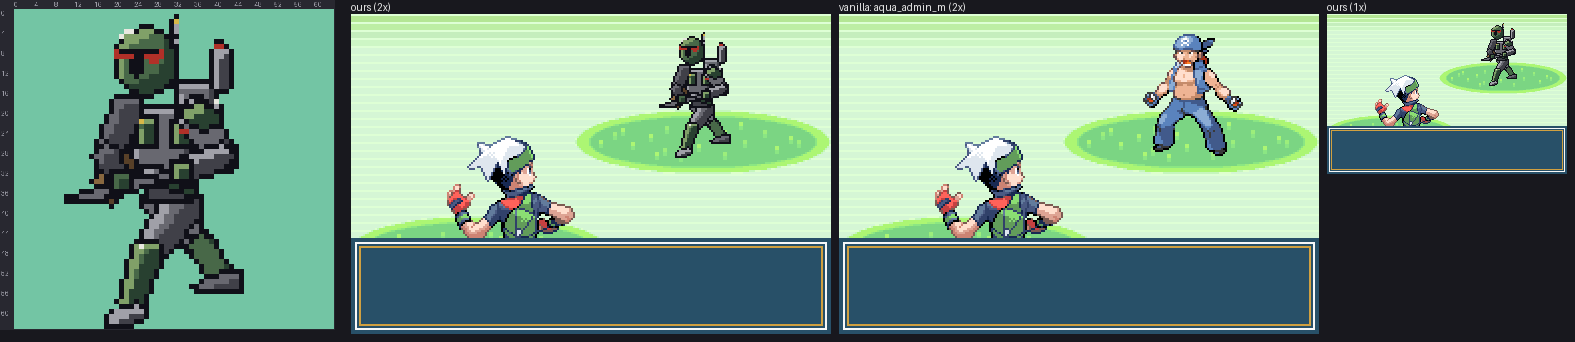
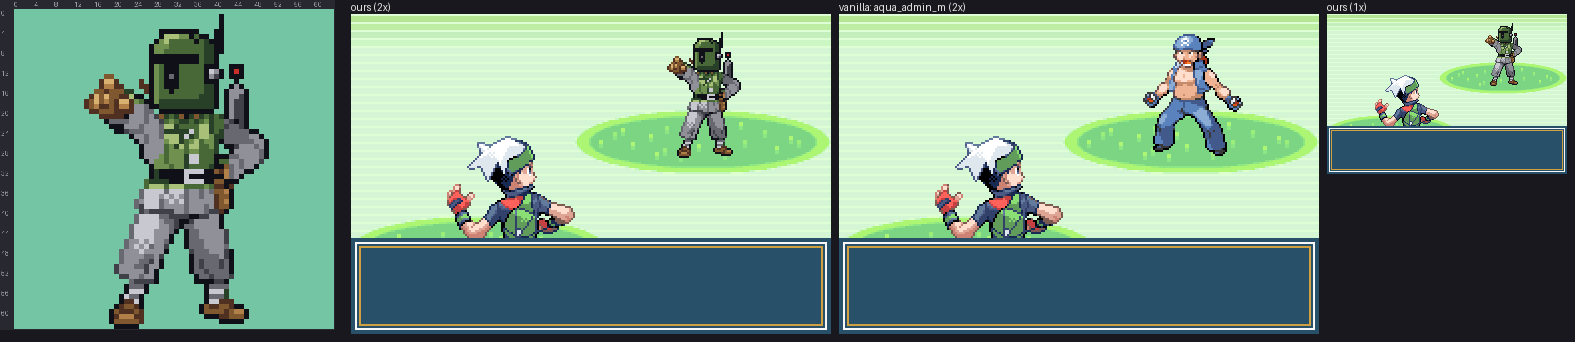
trainer-front round 5: Boba Fett and Leia repaints, behind layers, repaint workflow docs, D13

Changed region(s): [[0.0311, 0.0585, 0.1867, 0.9649], [0.4044, 0.0877, 0.4978, 0.4678], [0.9333, 0.0585, 0.9644, 0.2632]]

diff --git a/tools/emerald_sprite/rig.py b/tools/emerald_sprite/rig.py
@@ -20,7 +20,9 @@ the weight, which arm is near the camera) and like a pixel artist second (patche
 
 Repaint helpers (used on top of a `repaint:` vanilla base): `erase: true` on any shape cuts it
 out; `recolour: "a:b c:d"` on any shape swaps characters inside it; `shape: edge` with
-`chars: "jk"` and `to: d` darkens silhouette pixels of those characters (selective outline).
+`chars: "jk"` and `to: d` darkens silhouette pixels of those characters (selective outline);
+`behind: true` on a shaded shape paints only still-transparent pixels, so it tucks behind the
+base figure (a jetpack over the shoulder, a cape, hair buns behind the head).
 
 Shapes: `pixels` (x, y, rows: hand-placed pixels, `_` keeps; use it for details that must sit
 *under* a later layer, e.g. a face the lightsaber passes in front of), `capsule` (from, to, r: [r_from, r_to]), `ellipse` (at, r: [rx, ry], angle: degrees
@@ -167,6 +169,8 @@ def render(rig: dict, legend: dict[str, int], w: int, h: int, where: str, base=N
         elif outline not in legend:
             raise RigError(f"{lw}: outline {outline!r} not in the legend")
         m = _mask(layer, joints, w, h, lw)
+        behind = bool(layer.get("behind"))  # only fill pixels that are still transparent
+        snap = [list(r) for r in g] if behind else None
         hl = int(layer.get("highlight", 1))  # px of lit edge
         sh = int(layer.get("shadow", 2))  # px of shaded edge
         shadow, base = ramp[0], ramp[min(1, len(ramp) - 1)]
@@ -185,6 +189,6 @@ def render(rig: dict, legend: dict[str, int], w: int, h: int, where: str, base=N
                     ch = shadow
                 else:
                     ch = base
-            if 0 <= x < w and 0 <= y < h:
+            if 0 <= x < w and 0 <= y < h and not (behind and snap[y][x] != 0):
                 g[y][x] = legend[ch]
     return g

diff --git a/pipelines/trainer-front/README.md b/pipelines/trainer-front/README.md
@@ -1,16 +1,18 @@
 # Tool: `trainer-front` (trainer battle pics)
 
-**Status: IN-REVIEW.** Style picked (Vader 4b); round 4 checks it on Boba Fett, Leia and
-Obi-Wan before marking READY. Category B1
-(93 pics) and B4 (professor portrait).
+**Status: IN-REVIEW.** Rebuilt as a repaint tool (D13): each pic starts from the vanilla pic
+closest in pose and costume, recoloured and kitbashed. Round 5 (Vader, Boba Fett, Leia,
+Obi-Wan) is with the owner. Category B1 (93 pics) and B4 (professor portrait).
 
 **Read [STYLE-GUIDE.md](STYLE-GUIDE.md) first**: pose, perspective and pixel rules from the 93
 vanilla pics, a review checklist, and the owner's feedback log. Getting the pose right is the
 hard part of this category; the format is handled by the tool.
 
-Reference specs (picked style): `art/trainers/vader_p4b.yaml`, `boba.yaml`, `leia.yaml`,
-`obiwan.yaml`; review sheets `output/trainers/style-check-r4.png` (current), `vader-poses-r3.png`,
-`-r2.png`, `-r1.png` (rejected: front-on).
+Reference specs (repaints): `art/trainers/vader.yaml` (base Drake), `boba.yaml` (Pyramid King
+Brandon), `leia.yaml` (Glacia), `obiwan.yaml` (Expert M); `vader_p4b.yaml` is the last
+from-scratch rig drawing, kept for comparison. Review sheets `output/trainers/style-check-r5.png`
+and `repaint-bases-r5.png` (current), `style-check-r4.png` and `vader-poses-r*.png` (rig,
+superseded).
 
 ## Format (what the game needs)
 
@@ -26,32 +28,47 @@ Measured on the 93 vanilla pics (`corpus/trainer64.json`): full body, feet on ro
 at row 1-17, 29-57 px wide, ~1,075 opaque pixels, 13-15 colours, near-black outline on most
 edges, plenty of single-pixel highlights (orphans 11-23%).
 
-## Drawing a new trainer pic
+## Drawing a new trainer pic (repaint)
 
 1. Find the asset in `emerald-sw-db/database/pending_art.csv` (`kind = trainers`) and the
    Star Wars character in `swap_map.csv`.
-2. Write `art/trainers/<name>.yaml` (copy `leia.yaml` or `boba.yaml`): `name`, `kit: trainer64`,
-   `replaces`, inline `palette` (outline, 3-4 step ramp per material, accents), `legend`.
-3. Write a one-line pose brief (STYLE-GUIDE section 1), then block the pose with a `rig:`:
-   named joints plus layered `capsule`/`ellipse`/`poly` shapes, back to front, each with a
-   2-3 colour ramp; the tool fills, shades (light from the upper left) and outlines each layer
-   (see `tools/emerald_sprite/rig.py`). Move joints until the silhouette reads. Then add
-   `patches:` (`_` keeps the pixel underneath) for the face, emblems, glints and folds.
-   Do not draw trainer pics with `half:` mirroring: it produces flat front-on figures.
-4. `cd tools && python -m emerald_sprite build ../art/trainers/<name>.yaml`, then **look at**
-   `output/trainers/<name>/preview/zoom.png` (8x editor view with coordinates) and
-   `battle.png` (in a battle next to the vanilla pic it replaces, 1x and 2x). Fix until it
-   reads at 1x.
-5. `python -m emerald_sprite verify ../art/trainers/<name>.yaml`: 2048 bytes of 4bpp, a 32-byte
-   palette, identical round trip.
-6. Draw 2-3 pose variants and make a review sheet:
-   `python -m emerald_sprite compare ../output/trainers/<name>-variants.png a.yaml b.yaml c.yaml`.
-   Show the owner, record the pick in `docs/DECISIONS.md`, keep only the picked spec.
+2. **Pick a base**: the vanilla pic in `graphics/trainers/front_pics/` whose pose *and* costume
+   cut are closest (long coat -> cape, gown -> gown, robe -> robe). Make a contact sheet
+   (STYLE-GUIDE, last section) and choose by silhouette, not by the character it replaces.
+   Bases used so far: see the reference specs above.
+3. `cd tools && python -m emerald_sprite inspect $EMERALD_DIR/graphics/trainers/front_pics/<base>.png
+   /tmp/insp.png` and look at it: a false-colour map of which palette index is which material
+   (skin, hair, each cloth ramp, outline). Watch for one index used by two materials (Glacia's
+   belt shares the hair colours); fix those with a `recolour` region.
+4. Write `art/trainers/<name>.yaml` (copy `leia.yaml`): inline `palette` (index 0 transparent,
+   outline, then 3-4 step ramps), `legend`, and a frame with
+   `repaint: {pic: <base path>, remap: {<vanilla index>: <legend char>, ...}}` (every index the
+   base uses must be mapped; `flip: true` mirrors it). Map whole ramps to whole ramps so the
+   vanilla shading survives.
+5. Kitbash with `rig: layers:` on top of the base, in order:
+   - `erase: true` shapes remove what goes (old head, hat, held ball);
+   - `recolour: "a:b c:d"` shapes split one vanilla material into two of ours (sleeves grey,
+     chest green);
+   - shaded shapes (`poly`, `ellipse`, `capsule` with a `ramp`) build new parts (helmet, buns,
+     saber); `behind: true` paints only empty pixels, for parts behind the body (jetpack);
+   - `shape: pixels` places faces, visors, emblems by hand, before anything held in front;
+   - `shape: edge` with `chars`/`to` gives a light material a selective (non-black) outline.
+6. `python -m emerald_sprite build ../art/trainers/<name>.yaml`, then **look at**
+   `output/trainers/<name>/preview/zoom.png` (8x with coordinates) and `showcase.png`
+   (in battle at 1x and 2x next to the pic it replaces). Fix until it reads at 1x.
+7. `python -m emerald_sprite verify ../art/trainers/<name>.yaml`: 2048 bytes of 4bpp, a 32-byte
+   palette, identical round trip. Then a `compare` sheet for the owner.
+
+From scratch (no base): a frame can be only a `rig:` (see `vader_p4b.yaml` and the rig doc in
+`tools/emerald_sprite/rig.py`). Use it only when no vanilla pic is close; the owner rated rig
+drawings "about 70%" (D13).
 
 ## Known gaps
 
-- Lint flags bulk (area) for caped/robed characters and too few single-pixel highlights
-  (rig output is smooth; patch accents in).
+- Pose variety is limited to the 93 vanilla bases plus what kitbashing can change; each pic
+  is visibly derived from its base.
+- Lint flags slightly too few single-pixel highlights where large drawn parts (helmets)
+  replace hand-pixelled ones.
 - `symmetry` (share of pixels equal to their mirror) is linted against vanilla's 0.06-0.33;
   a front-on mirrored figure scores ~0.65.
 - `install` copies the PNG only; nothing else is needed for an existing pic.

diff --git a/docs/DECISIONS.md b/docs/DECISIONS.md
@@ -222,3 +222,31 @@ there, before held props. P4 and P4c removed. To confirm the style generalises b
 the tool READY: Boba Fett (replaces `aqua_admin_m`, Matt), Leia (`steven`), Obi-Wan
 (`champion_wallace`), all 3/4 with profile + toe-on feet and sloped bands, symmetry 0.15-0.20.
 Sheet: `output/trainers/style-check-r4.png`.
+
+## D13. Trainer pics are repaints of vanilla pics, not drawings from scratch (2026-10-31)
+
+Round 4 (rig drawings) was judged "about 70%... still looks really bad". The rig output fell
+short of vanilla for reasons a better rig would not fix: capsule-and-ellipse mannequins with
+black outlines all round, no cloth folds, no selective outlines, generic hands and faces, and
+bulky proportions next to Emerald's slim figures. Those are the things vanilla's artists drew by
+hand, and an LLM placing shapes does not reproduce them. So a trainer pic now starts from the
+vanilla pic whose pose and costume are closest to the character (`repaint:` in the spec):
+every vanilla palette index is remapped to one of our colours (which keeps all of its
+shading, folds and anti-aliasing), then rig layers kitbash it: `erase` removes the old head or
+prop, `recolour` swaps materials inside a region (sleeves vs chest), shaded shapes and
+`pixels` layers add the helmet, buns or saber, `behind: true` tucks a part behind the figure,
+and `shape: edge` adds selective outline. `inspect` shows which index is which material.
+Trade-offs accepted: poses are limited to the 93 vanilla pics plus what kitbashing can change,
+and each pic is visibly a derivative of one vanilla pic (the bases are recorded in the spec).
+If the owner needs poses vanilla does not have, that is the case for an image model (see the
+round 5 assessment) rather than more rig work.
+
+## Trainer prototype 1: round 5, repaint tool (2026-10-31)
+
+All four redrawn as repaints: Vader from Drake (coat -> cape, hat -> helmet, red saber low),
+Boba Fett from Pyramid King Brandon (fatigues -> green chest armour and grey flight suit,
+T-visor helmet, rangefinder, jetpack behind), Leia from Glacia (gown -> white, side buns,
+silver belt, ball -> blaster), Obi-Wan from Expert M (robes -> beige tunic and brown robe,
+blue saber). Sheets: `output/trainers/style-check-r5.png`, `repaint-bases-r5.png` (base next to
+result). Each spec takes 10-20 layers and a handful of builds; all verify. The old rig specs are
+not kept (git history has them).

diff --git a/pipelines/trainer-front/STYLE-GUIDE.md b/pipelines/trainer-front/STYLE-GUIDE.md
@@ -84,6 +84,11 @@ drawn that way." What vanilla does instead (study Steven, Norman, Maxie, Drake a
 
 ## 4. How to draw one (with the tool)
 
+Repaint a vanilla base first (see `README.md`, D13): the base supplies the pose, perspective
+and pixel craft below, and you only change materials, heads and props. Check the result against
+this guide all the same: kitbashed parts (helmets, props) must follow sections 2 and 3. The
+steps below are for the rare pic drawn from scratch with a rig.
+
 1. Write a one-line **pose brief** in the spec comment: facing, weight, gesture, prop, mood.
 2. Block the pose with a `rig:` (joints + layered shapes): place hips, feet, shoulders and
    head first, then the arms. Order layers back to front: cape/hair behind, far leg, far arm
@@ -131,7 +136,11 @@ drawn that way." What vanilla does instead (study Steven, Norman, Maxie, Drake a
   pass *in front of* the face/helmet, so faces are `pixels` layers inside the rig, drawn
   before the prop, never `patches` (patches always land on top).
 - **2026-10-31, style check round 4**: Vader 4b (saber over the helmet) plus Boba Fett, Leia
-  and Obi-Wan in the same style, to confirm it generalises. Awaiting review.
+  and Obi-Wan in the same style. Owner: "about 70% there, but it still looks really bad...
+  rethink this from the ground up." Lesson: shape-built figures lack vanilla's folds,
+  selective outlines, hands, faces and slim proportions; led to the repaint tool (D13).
+- **2026-10-31, round 5 (repaint)**: Vader from Drake, Boba Fett from Pyramid King Brandon,
+  Leia from Glacia, Obi-Wan from Expert M. Awaiting the owner's final assessment.
 
 ## Contact sheet of the vanilla pics
 

diff --git a/CHECKLIST.md b/CHECKLIST.md
@@ -159,7 +159,7 @@ Work one tool at a time: build it, show the owner mockups in chat, iterate, mark
 1. [x] Audit every asset category, generate this checklist (2026-10-31).
 2. [x] Restructure the repo: `art/<category>/`, `output/<category>/`, `pipelines/<tool>/`, `catalog/`.
 3. [x] `walker` 16x32 people kit: Vader approved.
-4. [ ] `trainer-front`: tool built; Vader round 1 rejected (flat, front-on); round 3 picked 4b's style; round 4 style check (Vader, Boba Fett, Leia, Obi-Wan) **IN-REVIEW**. Style guide: `pipelines/trainer-front/STYLE-GUIDE.md`.
+4. [ ] `trainer-front`: tool built; Vader round 1 rejected (flat, front-on); round 3 picked 4b's style; round 4 rig drawings judged 70%; rebuilt as a repaint tool (D13), round 5 (Vader, Boba Fett, Leia, Obi-Wan) **IN-REVIEW** for the final call: keep the repaint tool or use an image model for this category. Style guide: `pipelines/trainer-front/STYLE-GUIDE.md`.
 5. [ ] `trainer-back`: player throw sheets (needs the player character decided).
 6. [ ] `creature`: battle front (2 frames) + back + shiny palette.
 7. [ ] `icon`: item icons first (218), then berries, decorations, balls, type labels; derive party icons and footprints from creature fronts.
